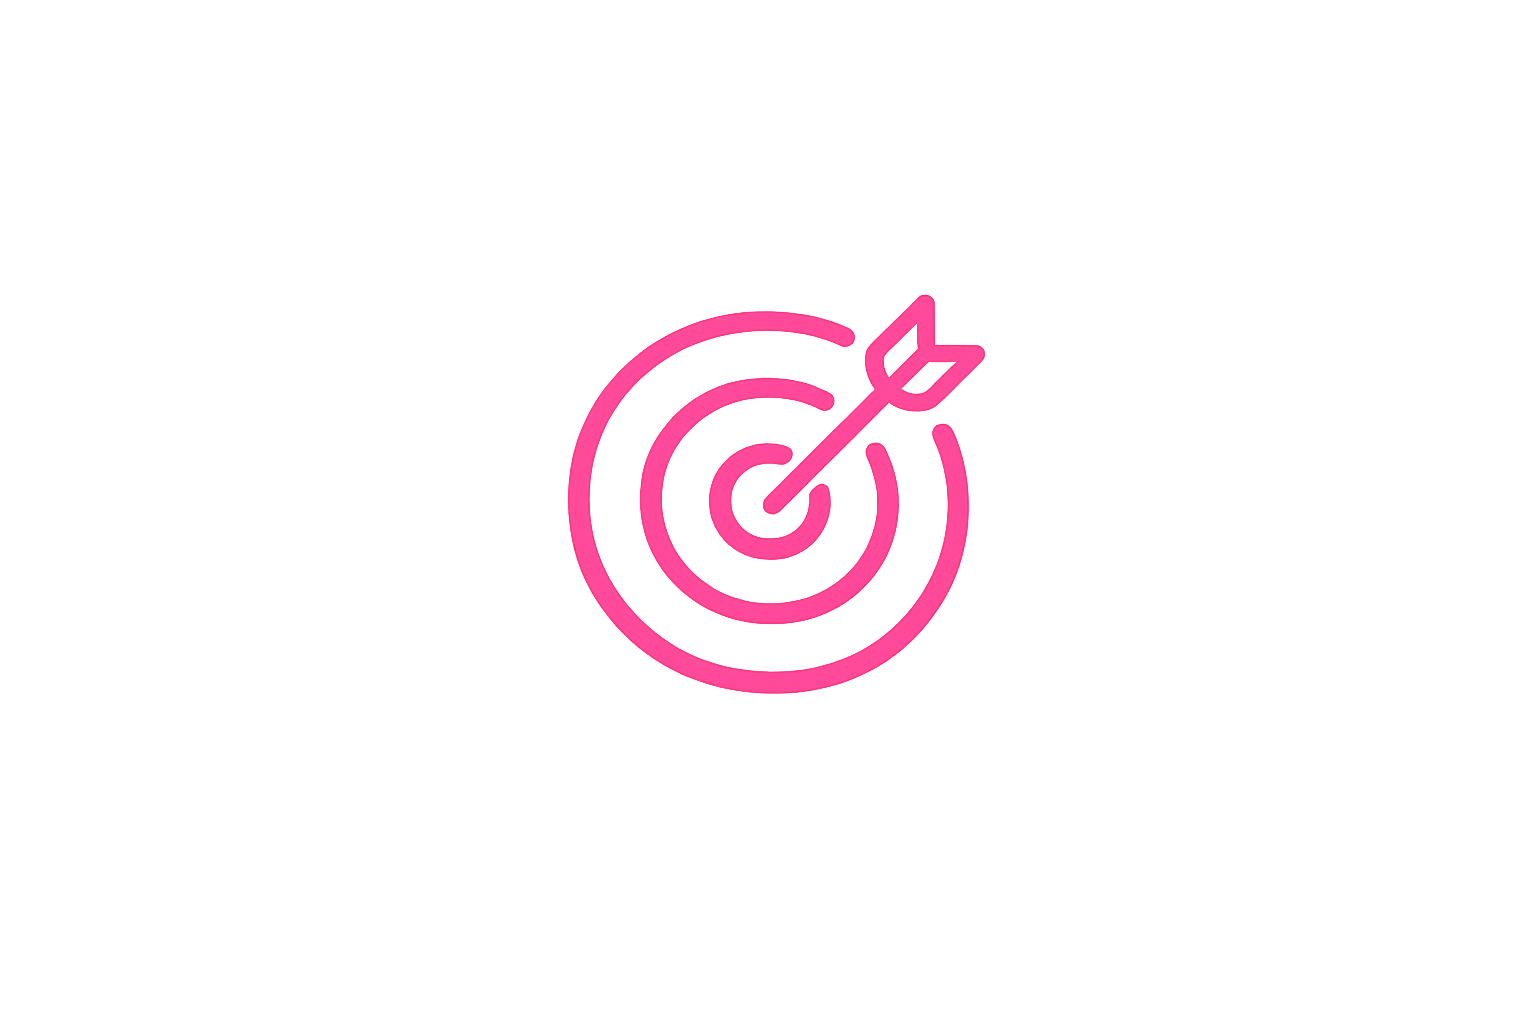
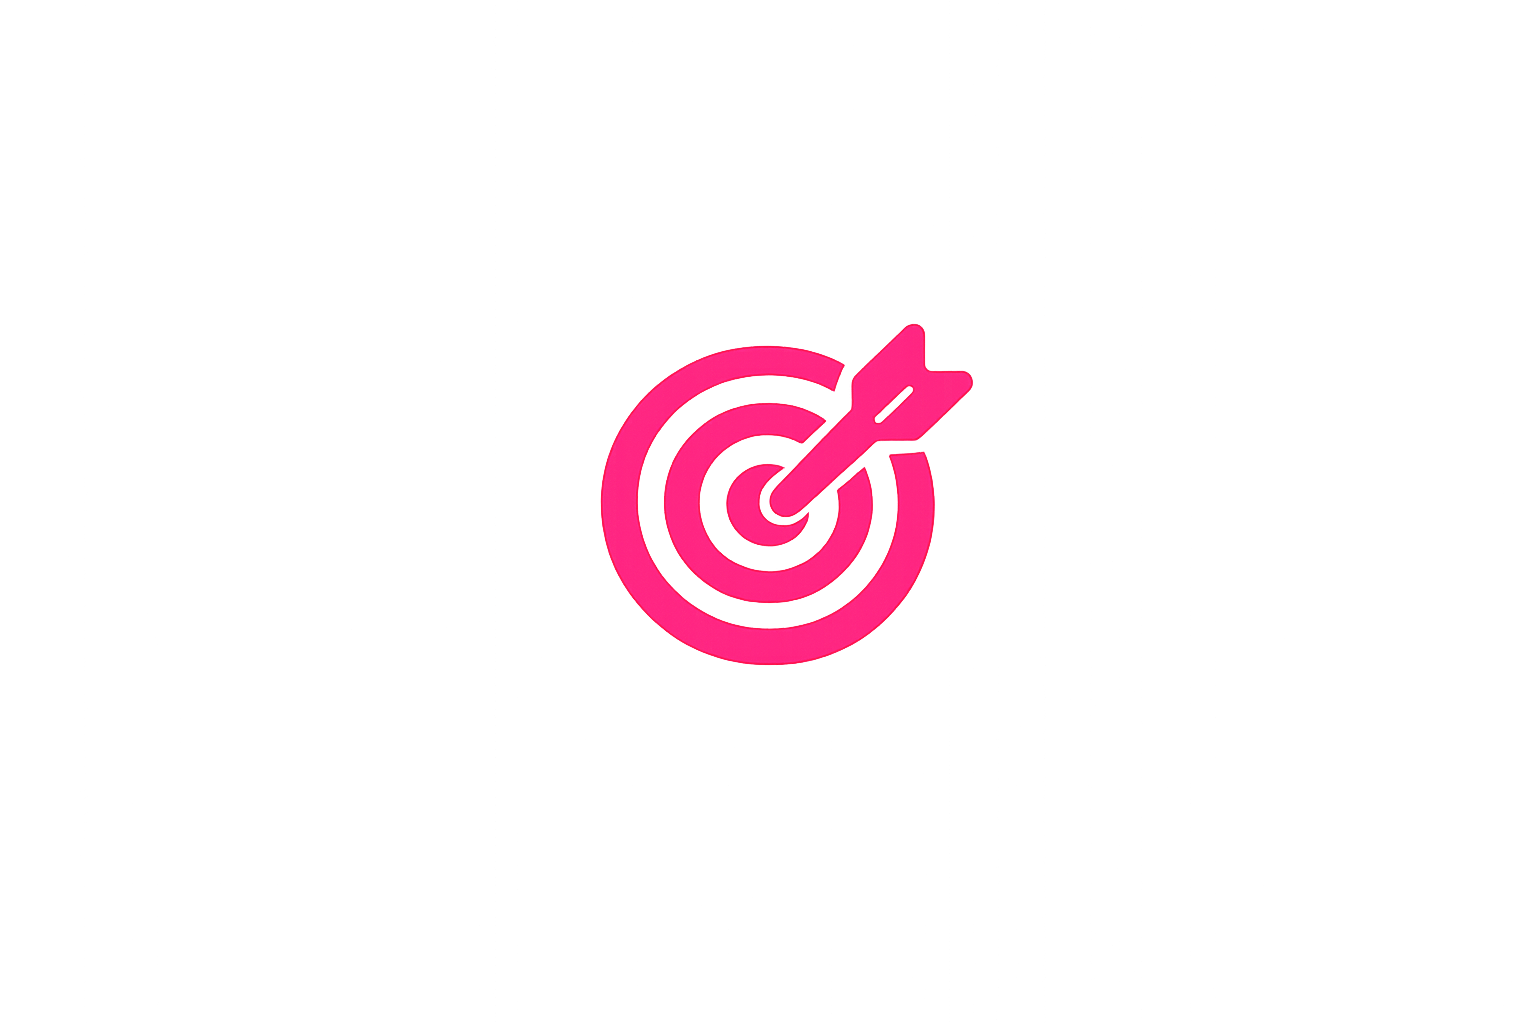
varios

Changed region(s): [[0.3438, 0.2812, 0.6562, 0.6875]]

diff --git a/styles.css b/styles.css
@@ -215,60 +215,103 @@ nav ul li:last-child a {
   color: #555;
 }
 
-/* Servicios */
-.services {
-  background: #fff;
+.servicios {
+  background-color: #fff;
   text-align: center;
   padding: 60px 40px;
 }
 
-.services h2 {
+.titulo-seccion {
+  font-size: 0.9rem;
   color: #e91e63;
-  margin-bottom: 20px;
+  font-weight: 700;
+  letter-spacing: 1px;
+  margin-bottom: 10px;
 }
 
-.services .subtitle {
+.subtitulo-seccion {
+  font-size: 1.8rem;
   font-weight: 600;
-  color: #555;
-  margin-bottom: 15px;
+  color: #333;
+  margin-bottom: 10px;
 }
 
-.services p {
-  color: #555;
-  margin-bottom: 20px;
+.subtitulo-seccion .rosa {
+  color: #e91e63;
+  font-weight: 700;
 }
 
-.service-grid {
+.descripcion-seccion {
+  color: #555;
+  margin-bottom: 40px;
+  font-size: 1rem;
+}
+
+.servicios-grid {
   display: grid;
-  grid-template-columns: repeat(auto-fit, minmax(280px, 1fr));
-  gap: 50px;
+  grid-template-columns: repeat(auto-fit, minmax(300px, 1fr));
+  gap: 40px;
   max-width: 1100px;
-  margin: 40px auto;
+  margin: 0 auto;
 }
 
-.service {
+.servicio {
+  background-color: #fff;
+  border-radius: 8px;
+  box-shadow: 0 4px 10px rgba(0,0,0,0.1);
+  overflow: hidden;
+  transition: transform 0.3s ease;
+}
+
+.servicio:hover {
+  transform: translateY(-5px);
+}
+
+.servicio img {
+  width: 100%;
+  height: 180px;
+  object-fit: cover;
+}
+
+.contenido-servicio {
+  padding: 20px;
   text-align: left;
-  background: #fff;
 }
 
-.service h3 {
+.icono-servicio {
+  font-size: 1.8rem;
   color: #e91e63;
   margin-bottom: 10px;
 }
 
-.service p {
+.contenido-servicio h3 {
+  color: #e91e63;
+  font-size: 1.2rem;
+  margin-bottom: 8px;
+}
+
+.contenido-servicio p {
   color: #555;
+  margin-bottom: 10px;
+}
+
+.contenido-servicio ul {
+  list-style: none;
+  padding: 0;
   margin-bottom: 15px;
 }
 
-.service ul {
-  list-style: none;
-  padding: 0;
+.contenido-servicio ul li {
+  color: #555;
+  margin-bottom: 6px;
 }
 
-.service ul li {
-  margin-bottom: 8px;
-  color: #555;
+.linea-rosa {
+  width: 50px;
+  height: 3px;
+  background-color: #e91e63;
+  margin: 0 auto;
+  border-radius: 2px;
 }
 
 /* Beneficios adicionales */

diff --git a/index.html b/index.html
@@ -70,42 +70,63 @@
 </section>
 
 <!-- Nuestros Servicios -->
-<section class="services" id="servicios">
-  <h2>Nuestros Servicios</h2>
-  <p>Soluciones Integrales de Cobranza</p>
-  <p>Adaptamos nuestras estrategias a tus necesidades para obtener los mejores resultados.</p>
+<section class="servicios" id="servicios">
+  <h4 class="titulo-seccion">NUESTROS SERVICIOS</h4>
+  <h2 class="subtitulo-seccion">
+    <strong>Soluciones Integrales de</strong> <span class="rosa">Cobranza</span>
+  </h2>
+  <p class="descripcion-seccion">
+    Adaptamos nuestras estrategias a tus necesidades para obtener los mejores resultados.
+  </p>
 
-  <div class="service-grid">
-    <div class="service">
-      <h3>Recuperación de Cartera</h3>
-      <p>Gestión y recuperación de cuentas vencidas.</p>
-      <ul>
-        <li>✔ Análisis de cartera</li>
-        <li>✔ Gestión de cobranza</li>
-        <li>✔ Recuperación efectiva</li>
-      </ul>
+  <div class="servicios-grid">
+    <div class="servicio">
+      <img src="img/recuperacion.jpg" alt="Recuperación de Cartera">
+      <div class="contenido-servicio">
+        <div class="icono-servicio">📄</div>
+        <h3>Recuperación de Cartera</h3>
+        <p>Gestión y recuperación de cuentas vencidas.</p>
+        <ul>
+          <li>Análisis de cartera</li>
+          <li>Gestión de cobranza</li>
+          <li>Recuperación efectiva</li>
+        </ul>
+        <div class="linea-rosa"></div>
+      </div>
     </div>
 
-    <div class="service">
-      <h3>Cobranza Preventiva</h3>
-      <p>Estrategias para prevenir la morosidad.</p>
-      <ul>
-        <li>✔ Monitoreo continuo</li>
-        <li>✔ Recordatorios oportunos</li>
-        <li>✔ Reducción de riesgos</li>
-      </ul>
+    <div class="servicio">
+      <img src="img/preventiva.jpg" alt="Cobranza Preventiva">
+      <div class="contenido-servicio">
+        <div class="icono-servicio">📞</div>
+        <h3>Cobranza Preventiva</h3>
+        <p>Estrategias para prevenir la morosidad.</p>
+        <ul>
+          <li>Monitoreo continuo</li>
+          <li>Recordatorios oportunos</li>
+          <li>Reducción de riesgos</li>
+        </ul>
+        <div class="linea-rosa"></div>
+      </div>
     </div>
 
-    <div class="service">
-      <h3>Negociación Estratégica</h3>
-      <p>Acuerdos efectivos para recuperar tu cartera.</p>
-      <ul>
-        <li>✔ Planes de pago personalizados</li>
-        <li>✔ Negociación profesional</li>
-        <li>✔ Acuerdos win-win</li>
-      </ul>
+    <div class="servicio">
+      <img src="img/negociacion.jpg" alt="Negociación Estratégica">
+      <div class="contenido-servicio">
+        <div class="icono-servicio">🤝</div>
+        <h3>Negociación Estratégica</h3>
+        <p>Acuerdos efectivos para recuperar tu cartera.</p>
+        <ul>
+          <li>Planes de pago personalizados</li>
+          <li>Negociación profesional</li>
+          <li>Acuerdos win-win</li>
+        </ul>
+        <div class="linea-rosa"></div>
+      </div>
     </div>
   </div>
+</section>
+
 
   <!-- Beneficios adicionales -->
   <div class="extra-benefits">